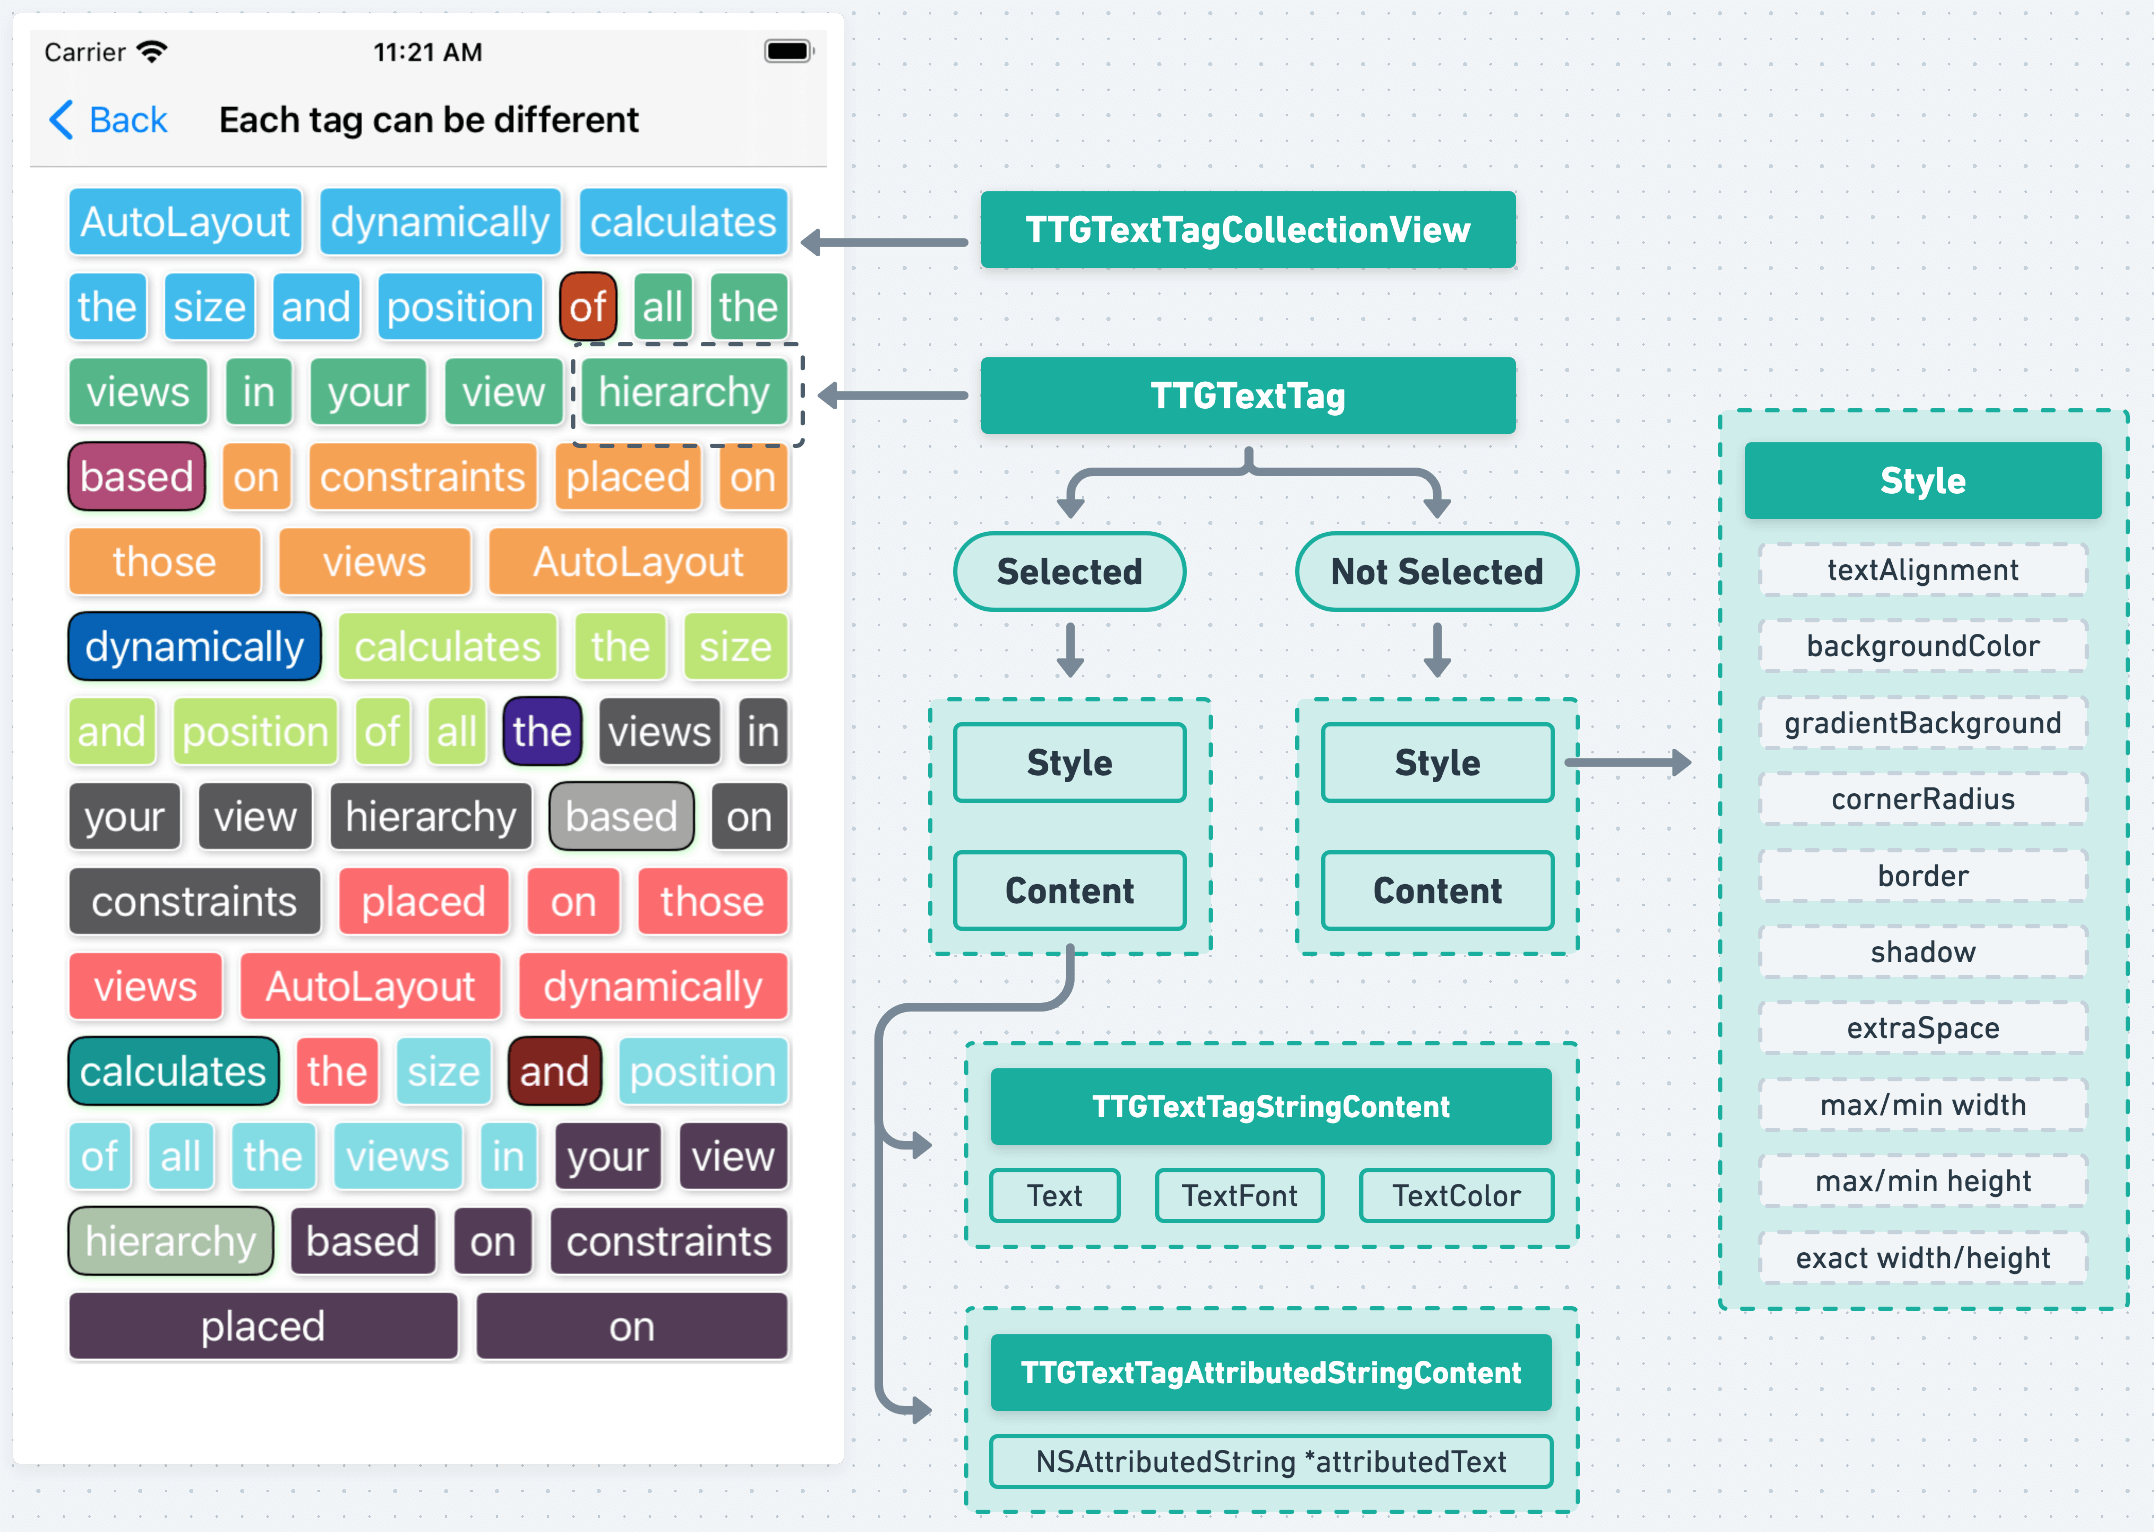
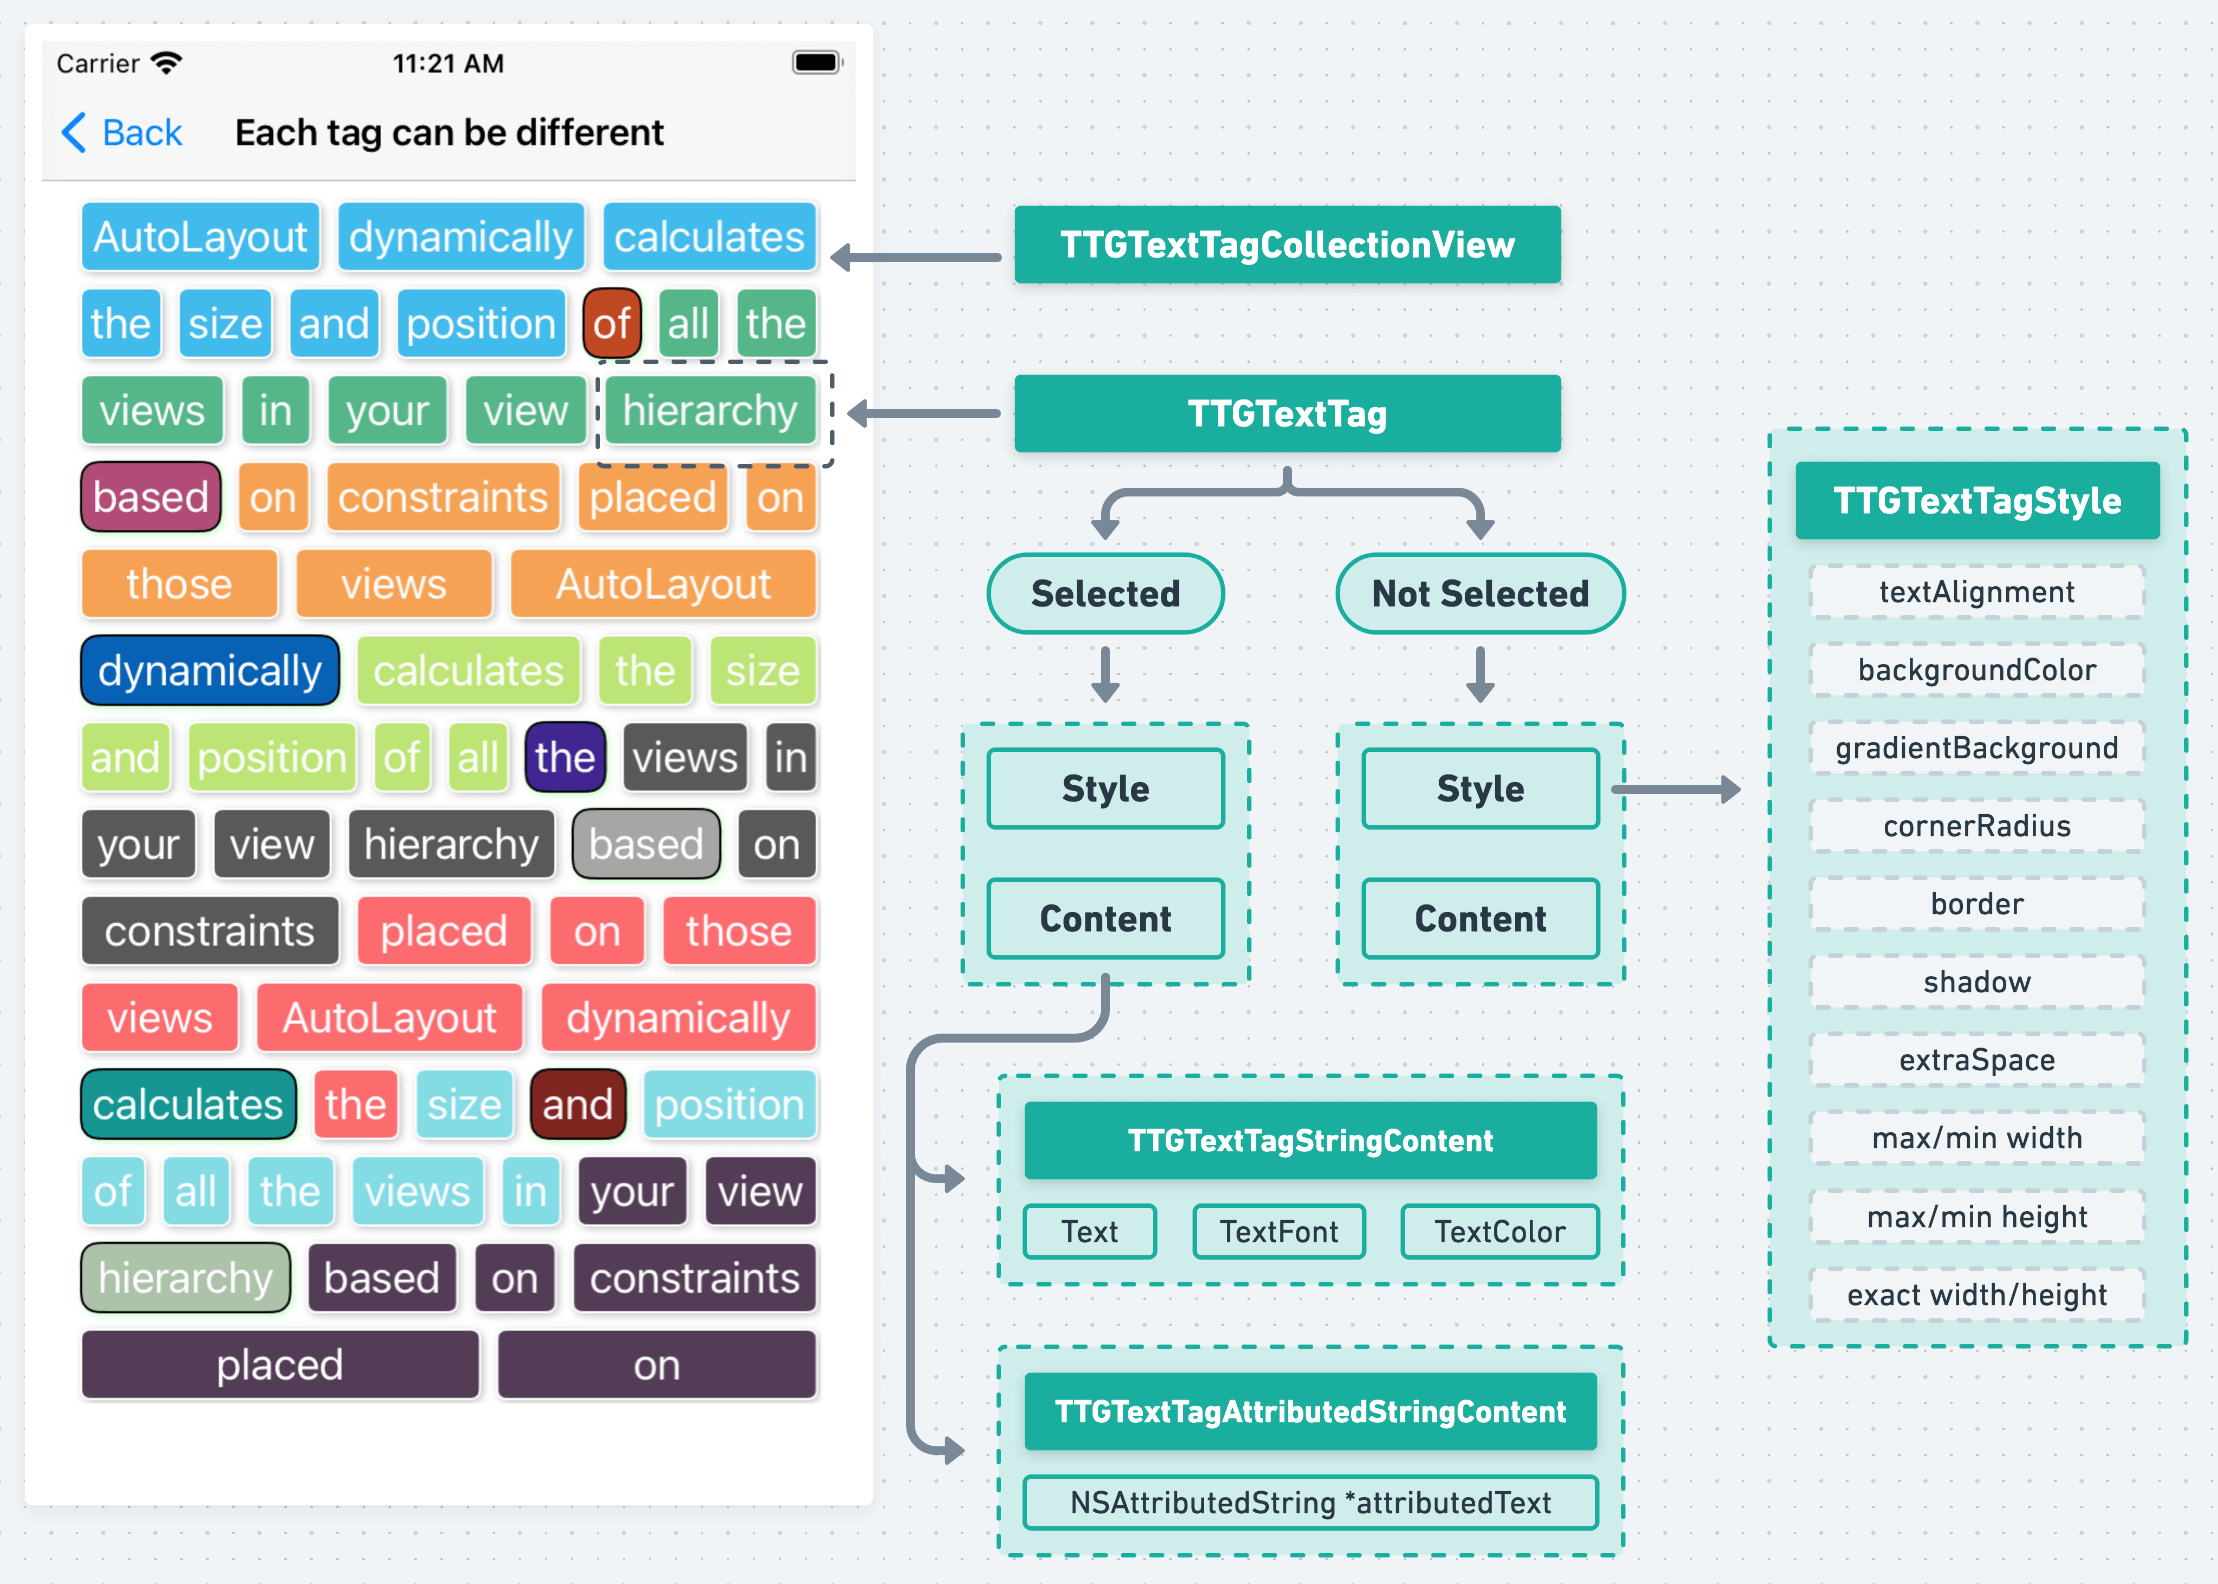
Update README

diff --git a/README.md b/README.md
@@ -34,6 +34,10 @@ Run `pod update` before try it.
 
 ![Example project](https://github.com/zekunyan/TTGTagCollectionView/raw/master/Resources/demo_example.jpeg)
 
+## Code Structure
+
+![Example project](https://github.com/zekunyan/TTGTagCollectionView/raw/master/Resources/code_structure.png)
+
 ## Requirements
 
 iOS 9 and later.
